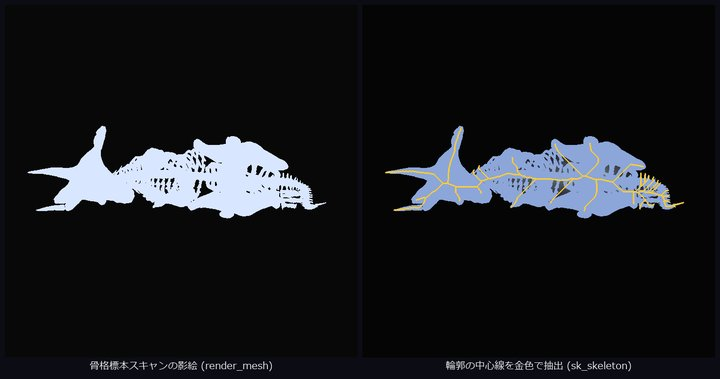
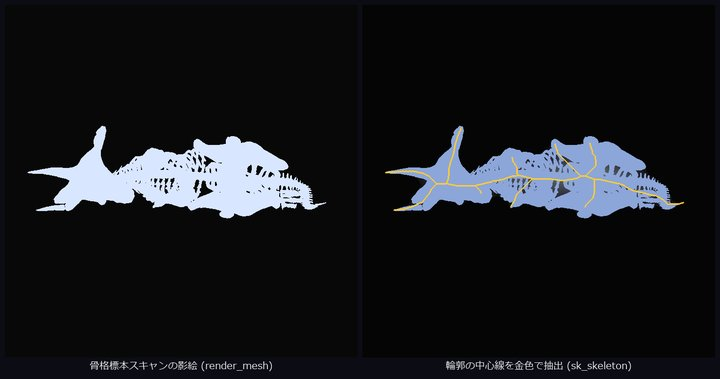
auto: gen_industrial_gallery.py 編集前 (2026-08-30 16:31)

diff --git a/tools/gen_science_gallery.py b/tools/gen_science_gallery.py
@@ -564,8 +564,15 @@ def subject_dino_skeleton(log=print) -> dict:
     r = fs.render_mesh(V, F, pose=pose, width=size, height=size)
     bones = np.asarray(r["silhouette"], np.float64)
     # 骨のすき間を閉じて「体の輪郭」にしてから中心線を取る
-    sil = fs.apply(bones, "closing_circle", 0.10, 0.5)
+    # (closing_circle 1 回の半径は最大 ~4px なので、膨張 x6 → 収縮 x6 で
+    #  大きな closing を組み立てる)
+    sil = bones
+    for _ in range(6):
+        sil = fs.apply(sil, "dilation_circle", 0.7, 0.5)
+    for _ in range(6):
+        sil = fs.apply(sil, "erosion_circle", 0.7, 0.5)
     sil = fs.apply(sil, "fill_up")
+    sil = fs.apply(sil, "select_shape_std")     # 最大成分のみ (浮いた破片を除去)
     skel = fs.apply(sil, "sk_skeleton")
     skel_bold = fs.apply(skel, "dilation_circle", 0.010, 0.5)
     dt = fs.apply(sil, "distance_transform")
